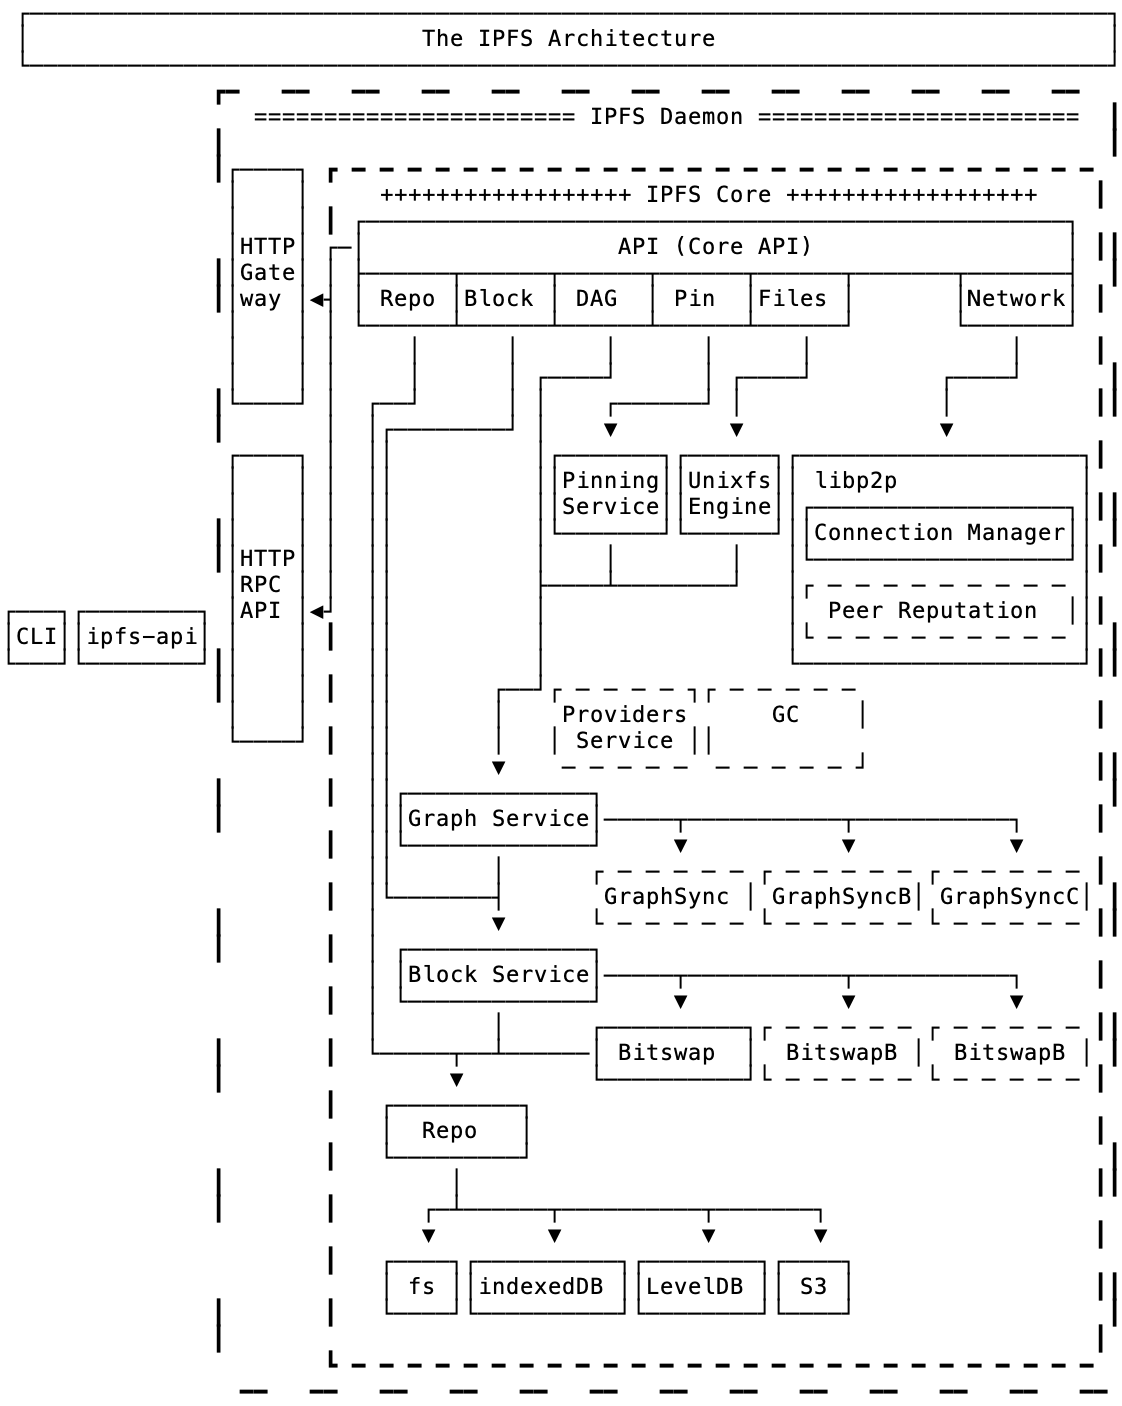
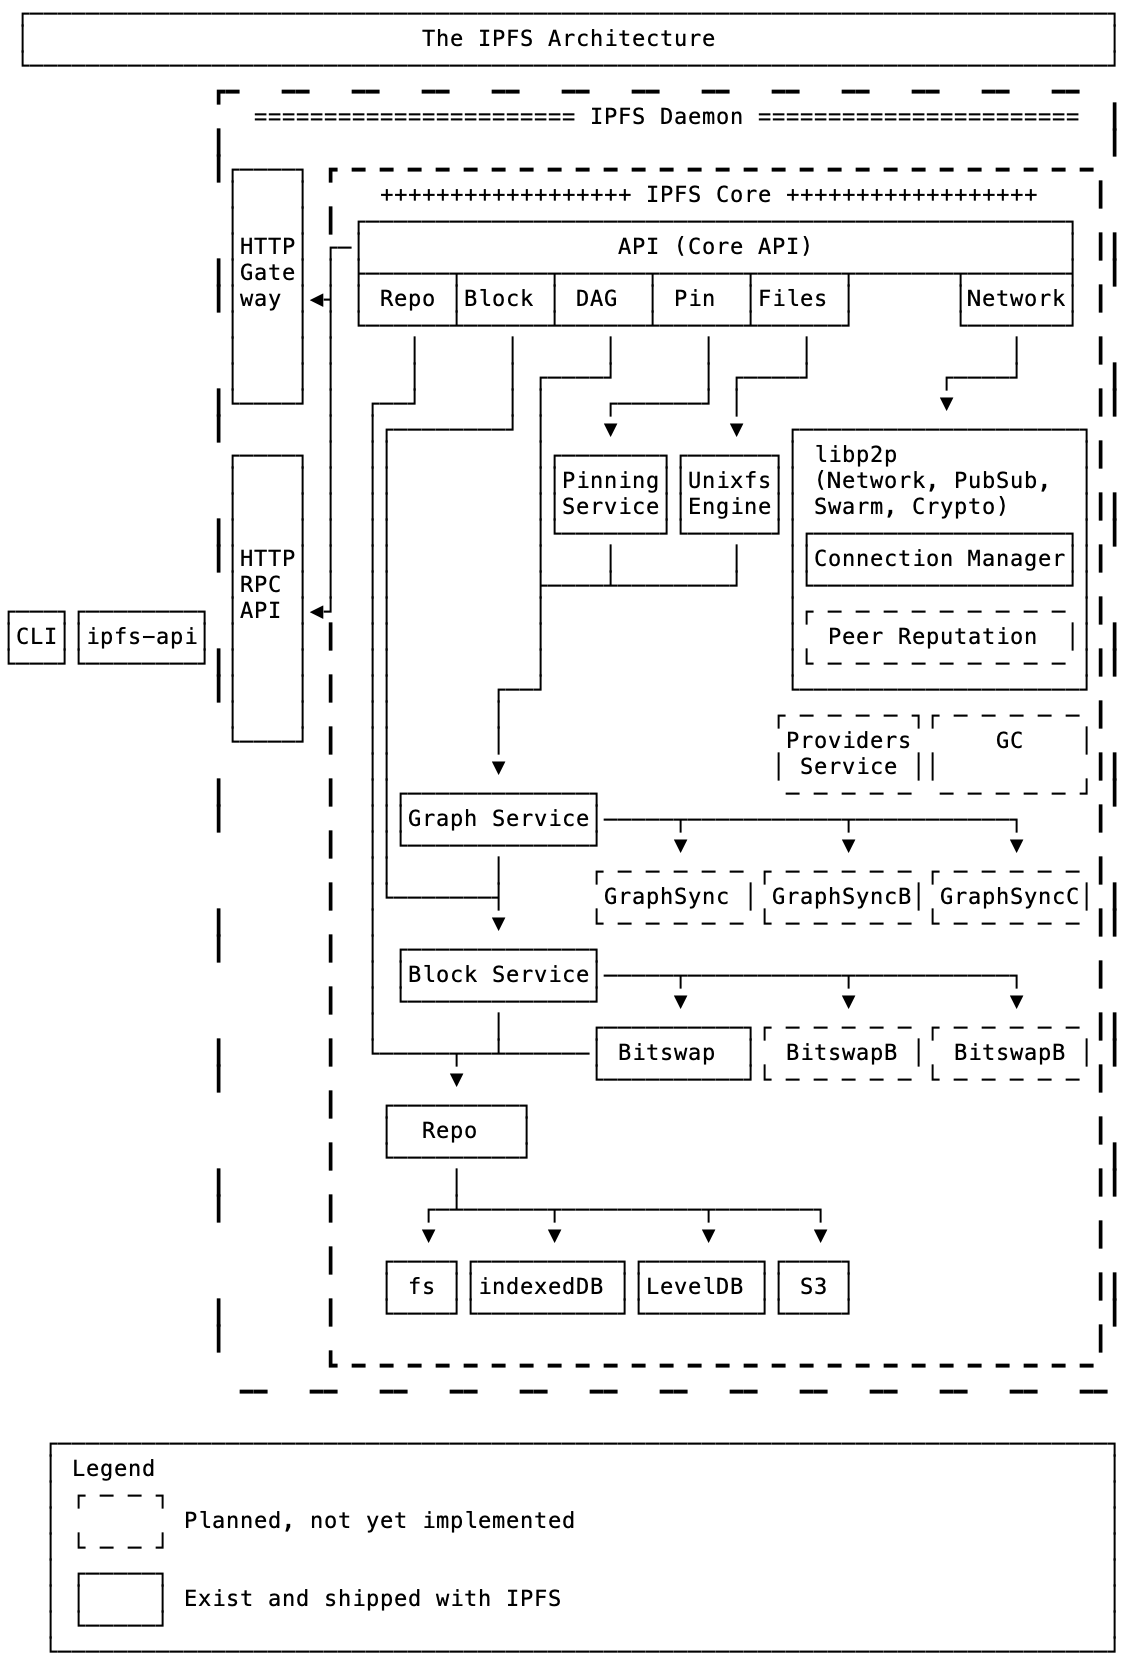
docs: apply review to arch diagram

diff --git a/README.md b/README.md
@@ -991,9 +991,11 @@ the metrics (in prometheus format) by making a GET request to the following endp
 http://localhost:5002/debug/metrics/prometheus
 ```
 
-### IPFS Core Architecture
+### IPFS Architecture
 
-![](/img/core.png)
+![](/img/architecture.png)
+
+[Annotated version](https://user-images.githubusercontent.com/1211152/47606420-b6265780-da13-11e8-923b-b365a8534e0e.png)j
 
 What does this image explain?
 
@@ -1001,16 +1003,16 @@ What does this image explain?
 - The exchange protocol, `bitswap`, uses the Block Service which in turn uses the Repo, offering a get and put of blocks to the IPFS implementation.
 - The DAG API (previously Object) comes from the IPLD Resolver, it can support several IPLD Formats (i.e: dag-pb, dag-cbor, etc).
 - The Files API uses `ipfs-unixfs-engine` to import and export files to and from IPFS.
-- Swarm, the component that offers a network API, uses libp2p to dial and listen for connections, to use the DHT, for discovery mechanisms, and more. libp2p-ipfs-nodejs is used when running in Node.js and libp2p-ipfs-browser is used when running in the browser.
+- libp2p, the network stack of IPFS, uses libp2p to dial and listen for connections, to use the DHT, for discovery mechanisms, and more.
 
 ## Contribute
 
 IPFS implementation in JavaScript is a work in progress. As such, there's a few things you can do right now to help out:
 
-  * Go through the modules below and **check out existing issues**. This would be especially useful for modules in active development. Some knowledge of IPFS may be required, as well as the infrastructure behind it - for instance, you may need to read up on p2p and more complex operations like muxing to be able to help technically.
-  * **Perform code reviews**. More eyes will help (a) speed the project along, (b) ensure quality, and (c) reduce possible future bugs.
-  * Take a look at go-ipfs and some of the planning repositories or issues: for instance, the [libp2p spec](https://github.com/ipfs/specs/pull/19). Contributions here that would be most helpful are **top-level comments** about how it should look based on our understanding. Again, the more eyes the better.
-  * **Add tests**. There can never be enough tests.
+- Go through the modules below and **check out existing issues**. This would be especially useful for modules in active development. Some knowledge of IPFS may be required, as well as the infrastructure behind it - for instance, you may need to read up on p2p and more complex operations like muxing to be able to help technically.
+- **Perform code reviews**. More eyes will help (a) speed the project along, (b) ensure quality, and (c) reduce possible future bugs.
+- Take a look at go-ipfs and some of the planning repositories or issues: for instance, the [libp2p spec](https://github.com/ipfs/specs/pull/19). Contributions here that would be most helpful are **top-level comments** about how it should look based on our understanding. Again, the more eyes the better.
+- **Add tests**. There can never be enough tests.
 
 ### Want to hack on IPFS?
 

diff --git a/examples/README.md b/examples/README.md
@@ -31,7 +31,9 @@ Let us know if you find any issue or if you want to contribute and add a new tut
 
 In this section, you will find explanations to different pieces of IPFS Architecture and how `js-ipfs` implements them.
 
-![](../img/core.png)
+![](../img/architecture.png)
+
+[Annotated version](https://user-images.githubusercontent.com/1211152/47606420-b6265780-da13-11e8-923b-b365a8534e0e.png)
 
 > These explanations are still a work in progress
 
